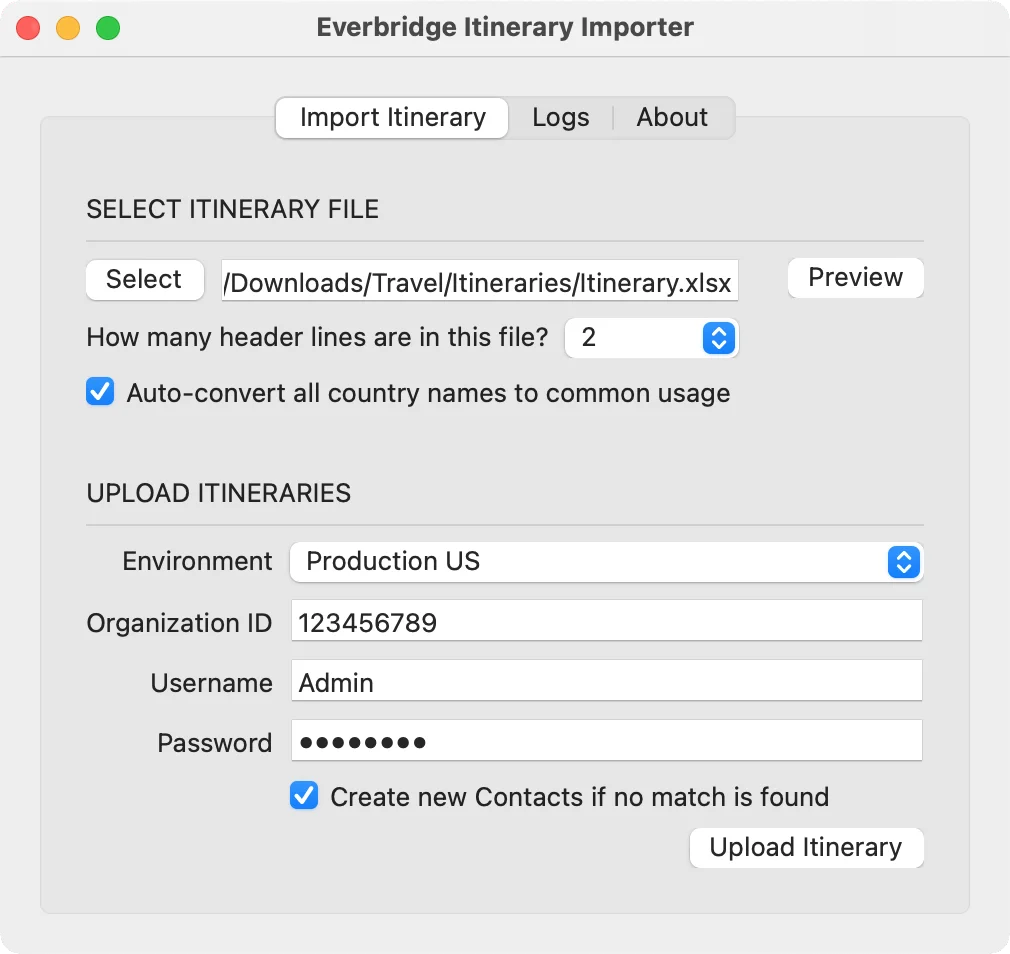
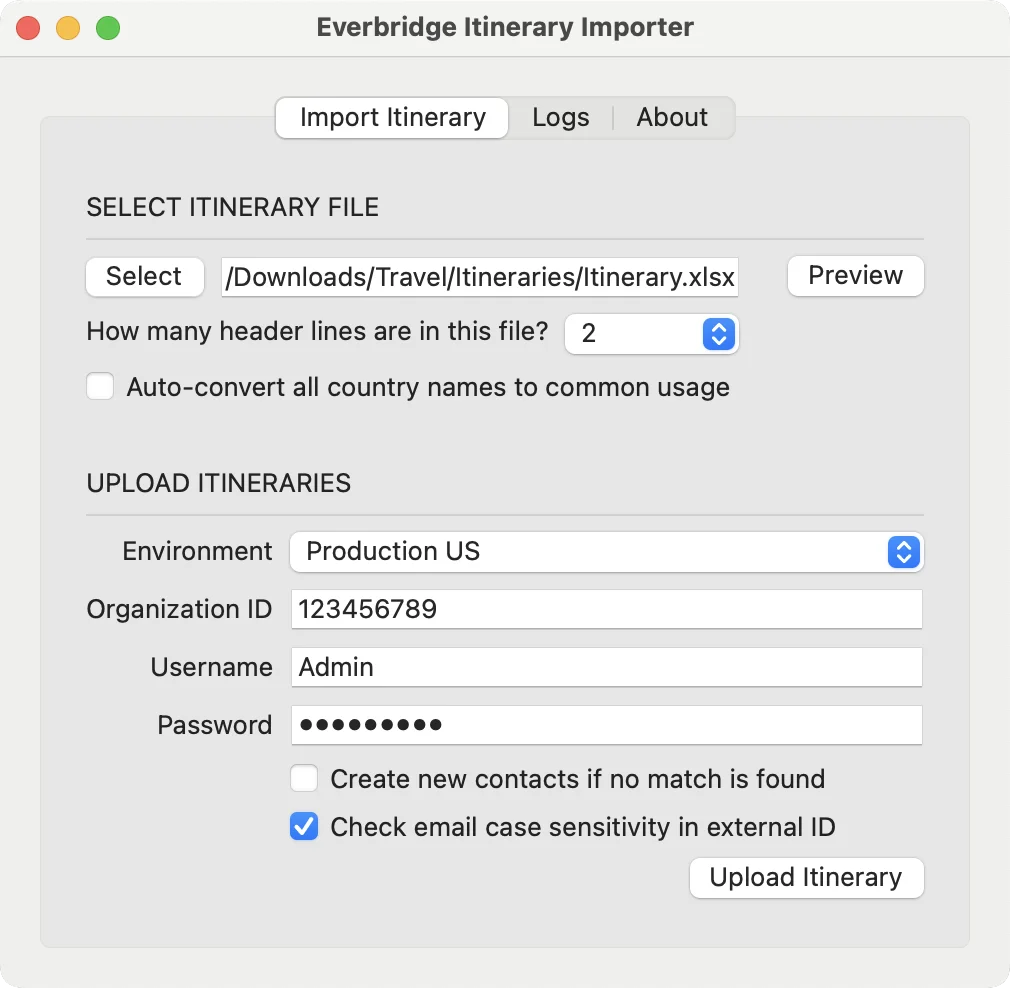
Add Check email case sensitivity in external ID option

diff --git a/README.md b/README.md
@@ -1,12 +1,12 @@
 ## Download the Tool
 
-- Microsoft Windows: [ItineraryImporter-Windows-v20221025.zip](https://github.com/Everbridge/Travel-Itinerary-Importer/releases/download/rel-20221025/ItineraryImporter-Windows-v20221025.zip)
-- Apple macOS (ARM64): [ItineraryImporter-macOS-arm64-v20221025.zip](https://github.com/Everbridge/Travel-Itinerary-Importer/releases/download/rel-20221025/ItineraryImporter-macOS-arm64-v20221025.zip)
-- Apple macOS (x86_64): [ItineraryImporter-macOS-x86_64-v20221025.zip](https://github.com/Everbridge/Travel-Itinerary-Importer/releases/download/rel-20221025/ItineraryImporter-macOS-x86_64-v20221025.zip)
+- Microsoft Windows: [ItineraryImporter-Windows-v20240118.zip](https://github.com/Everbridge/Travel-Itinerary-Importer/releases/download/rel-20240118/ItineraryImporter-Windows-v20240118.zip)
+- Apple macOS (ARM64): [ItineraryImporter-macOS-arm64-v20240118.zip](https://github.com/Everbridge/Travel-Itinerary-Importer/releases/download/rel-20240118/ItineraryImporter-macOS-arm64-v20240118.zip)
+- Apple macOS (x86_64): [ItineraryImporter-macOS-x86_64-v20240118.zip](https://github.com/Everbridge/Travel-Itinerary-Importer/releases/download/rel-20240118/ItineraryImporter-macOS-x86_64-v20240118.zip)
 
 ## Itinerary Template
 
-[Itinerary.xlsx](https://github.com/Everbridge/Travel-Itinerary-Importer/releases/download/rel-20221025/Itinerary.xlsx)
+[Itinerary.xlsx](https://github.com/Everbridge/Travel-Itinerary-Importer/releases/download/rel-20240118/Itinerary.xlsx)
 
 ## User Guide
 
@@ -25,5 +25,6 @@
    - The Organization ID can be located in the Manager Portal under `Settings` &rarr; `Organization` &rarr; `Base Information`.
    - The user must have API access, please contact support or your account administrator for more information.
    - Check the `Create new Contacts if no match is found` option to enable contact creation.
+   - Enable the `Check email case sensitivity in external ID` option to ensure case sensitivity while email is used as External ID.
 
 ![ItineraryImporter](/assets/images/ItineraryImporter.webp)
